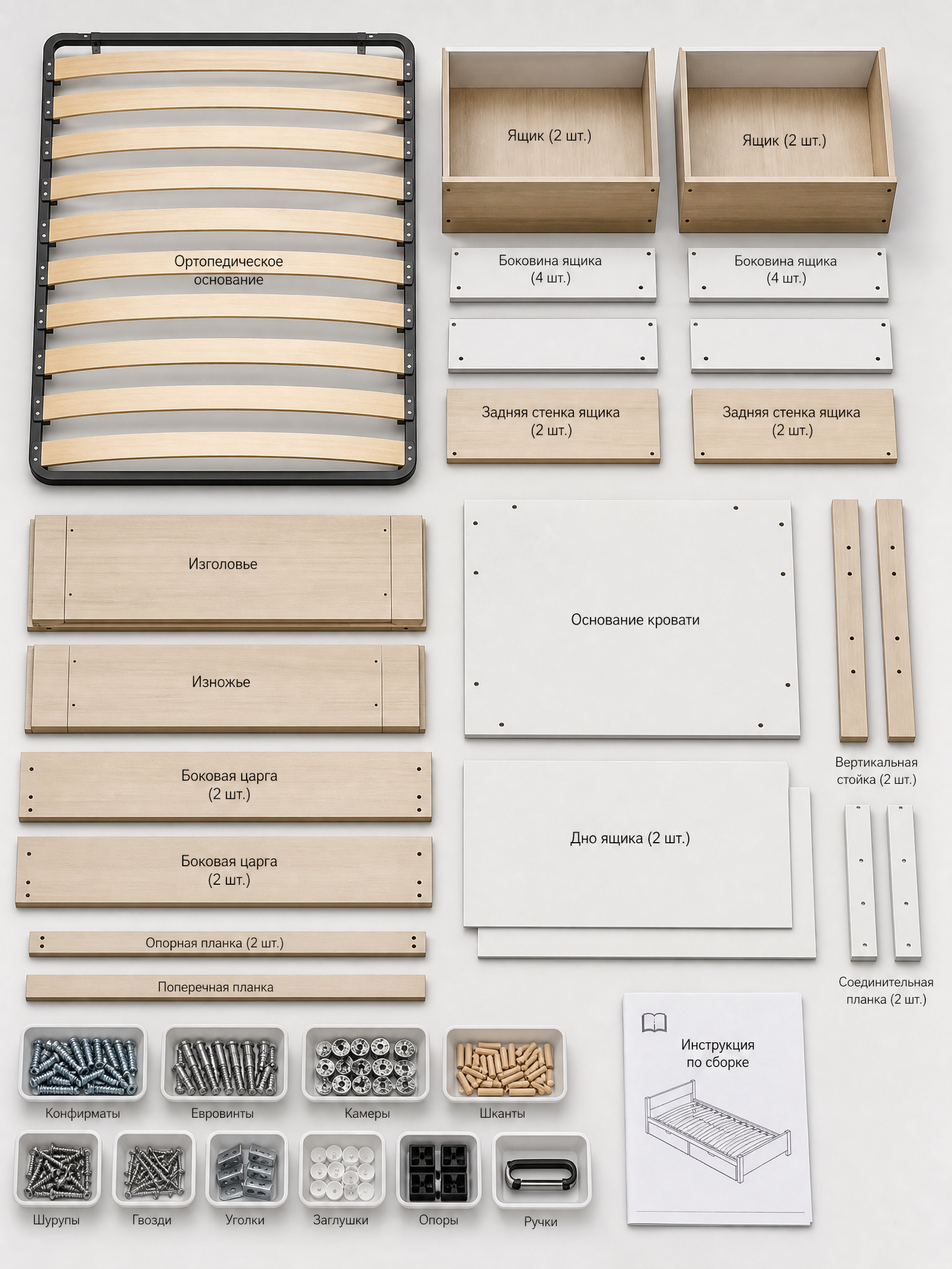
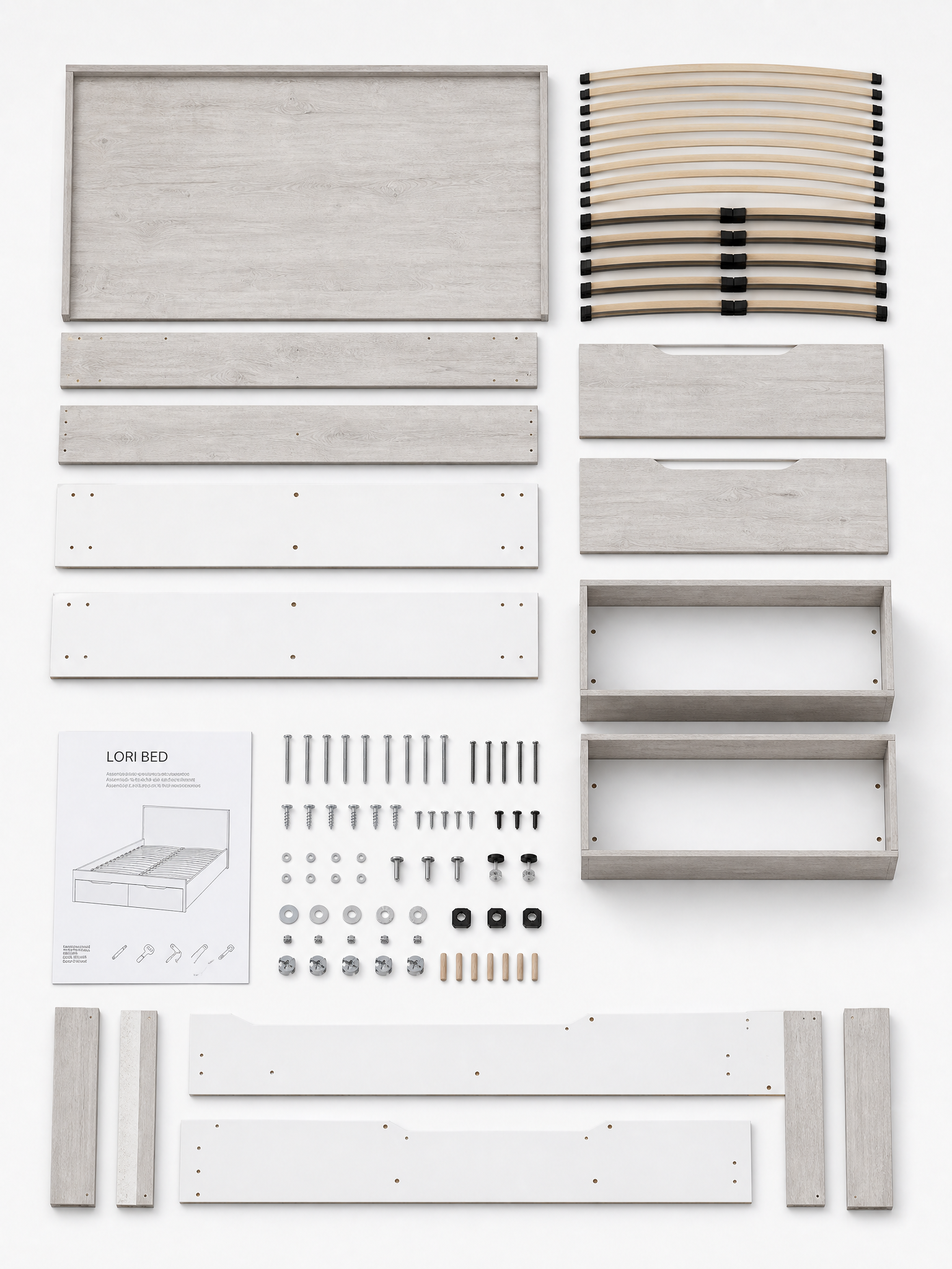
Regenerate Lori bed photos from dealer reference, 10 slots

diff --git a/scripts/fetch_33komoda_images.py b/scripts/fetch_33komoda_images.py
@@ -1,0 +1,40 @@
+#!/usr/bin/env python3
+"""Extract product image URLs from 33komoda product page."""
+
+from __future__ import annotations
+
+import re
+import sys
+import urllib.request
+
+UA = "Mozilla/5.0 (Windows NT 10.0; Win64; x64) AppleWebKit/537.36 Chrome/120.0.0.0 Safari/537.36"
+
+
+def fetch_urls(page_url: str) -> list[str]:
+    req = urllib.request.Request(page_url, headers={"User-Agent": UA})
+    with urllib.request.urlopen(req, timeout=120) as resp:
+        html = resp.read().decode("utf-8", "replace")
+    rel = re.findall(r"/upload/[^\"'\s>]+\.(?:jpg|jpeg|png|webp)", html, re.I)
+    absu = re.findall(r"https?://[^\"'\s>]+\.(?:jpg|jpeg|png|webp)", html, re.I)
+    out: list[str] = []
+    seen: set[str] = set()
+    for u in absu + [f"https://33komoda.ru{x}" for x in rel]:
+        if "upload" not in u.lower():
+            continue
+        if u not in seen:
+            seen.add(u)
+            out.append(u)
+    return out
+
+
+def main() -> None:
+    url = sys.argv[1] if len(sys.argv) > 1 else (
+        "https://33komoda.ru/catalog/krovati_i_osnovaniya/"
+        "krovat_lori_1400_2000_mm_s_ortopedicheskim_osnovaniem_i_yashchikami_dub_seryy_belyy/"
+    )
+    for u in fetch_urls(url):
+        print(u)
+
+
+if __name__ == "__main__":
+    main()
